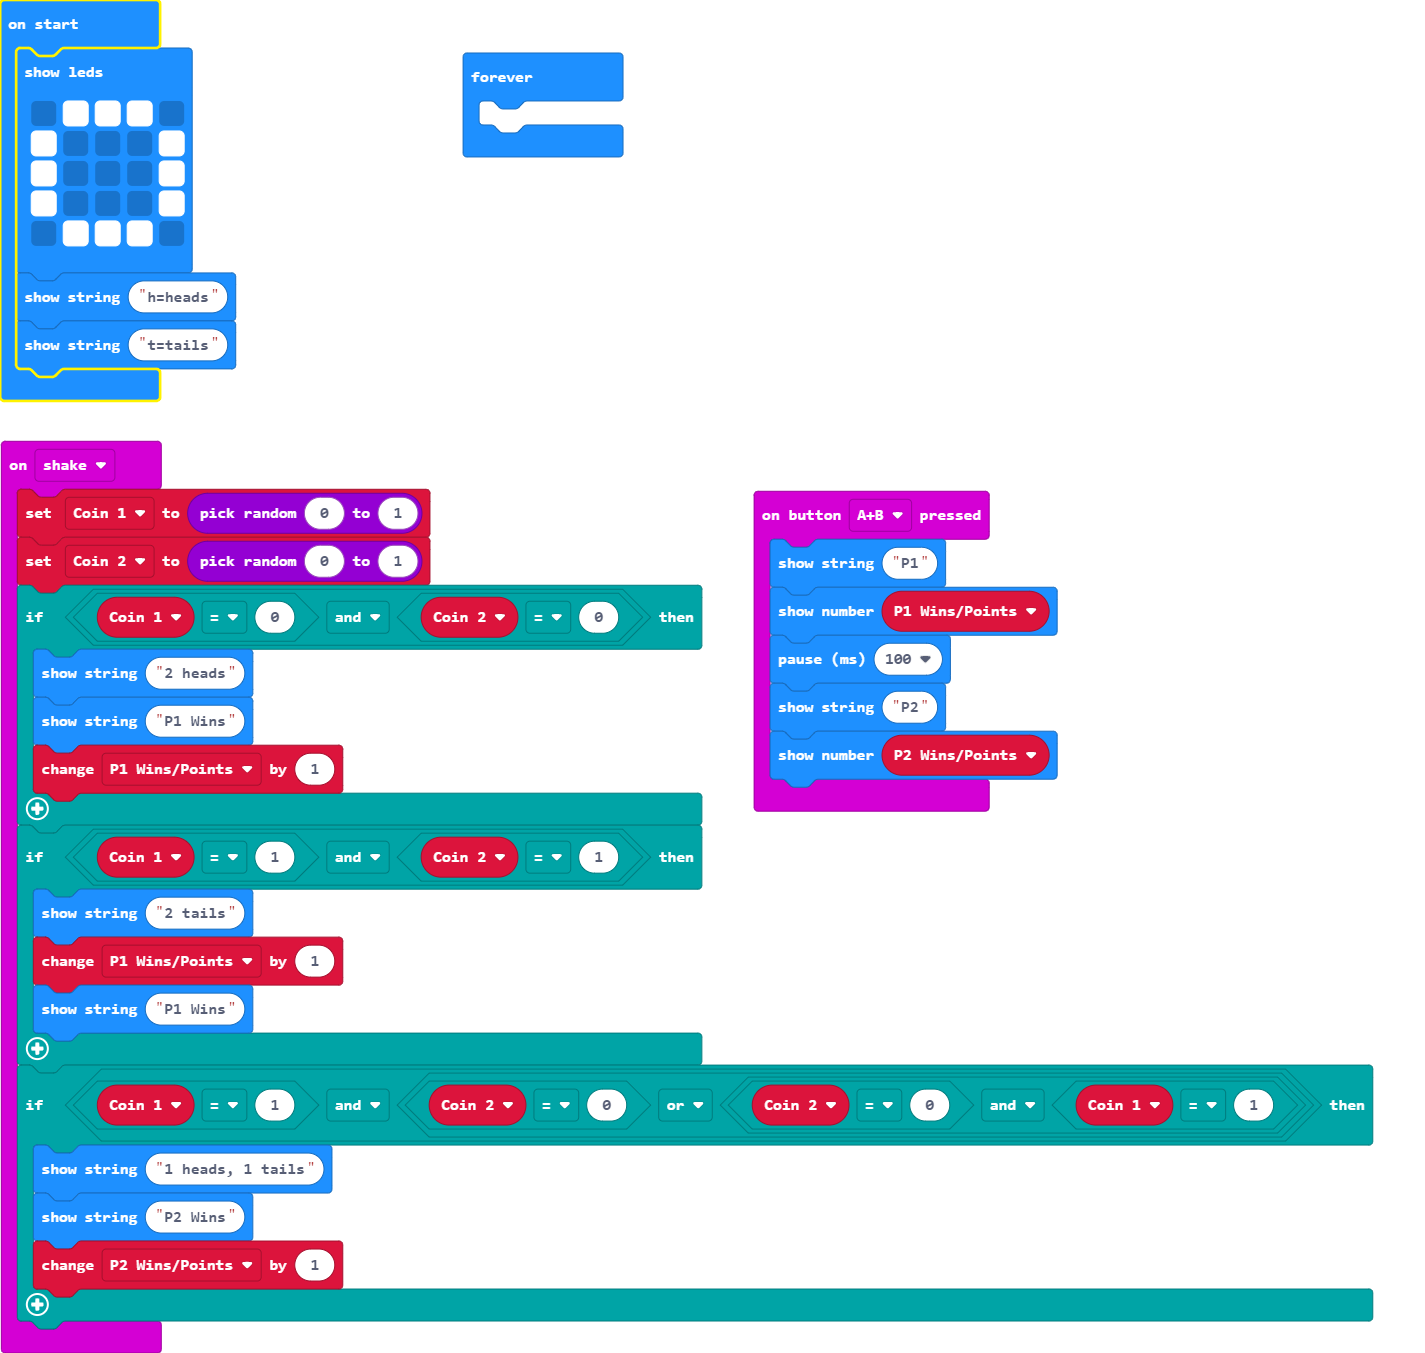
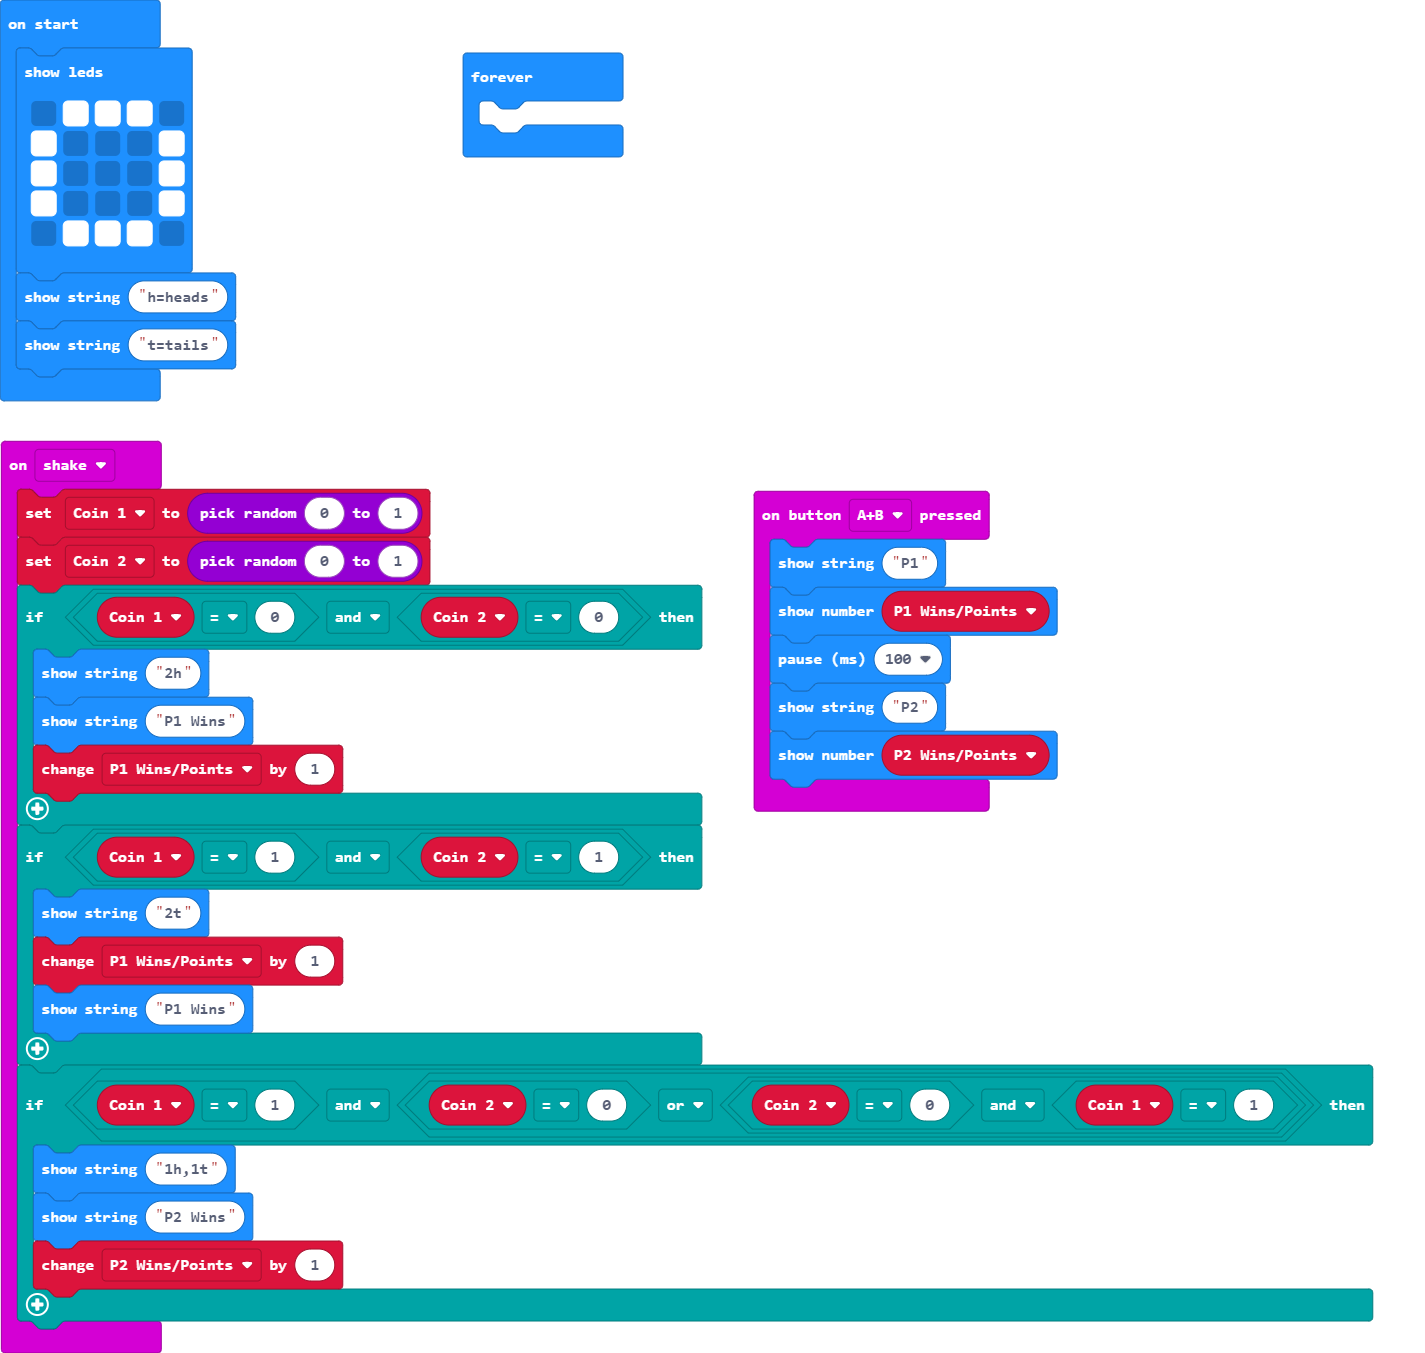
Update main.blocks, main.ts

diff --git a/main.ts b/main.ts
@@ -9,17 +9,17 @@ input.onGesture(Gesture.Shake, function () {
     Coin_1 = randint(0, 1)
     Coin_2 = randint(0, 1)
     if (Coin_1 == 0 && Coin_2 == 0) {
-        basic.showString("2 heads")
+        basic.showString("2h")
         basic.showString("P1 Wins")
         P1_WinsPoints += 1
     }
     if (Coin_1 == 1 && Coin_2 == 1) {
-        basic.showString("2 tails")
+        basic.showString("2t")
         P1_WinsPoints += 1
         basic.showString("P1 Wins")
     }
     if (Coin_1 == 1 && (Coin_2 == 0 || Coin_2 == 0 && Coin_1 == 1)) {
-        basic.showString("1 heads, 1 tails")
+        basic.showString("1h,1t")
         basic.showString("P2 Wins")
         P2_WinsPoints += 1
     }
